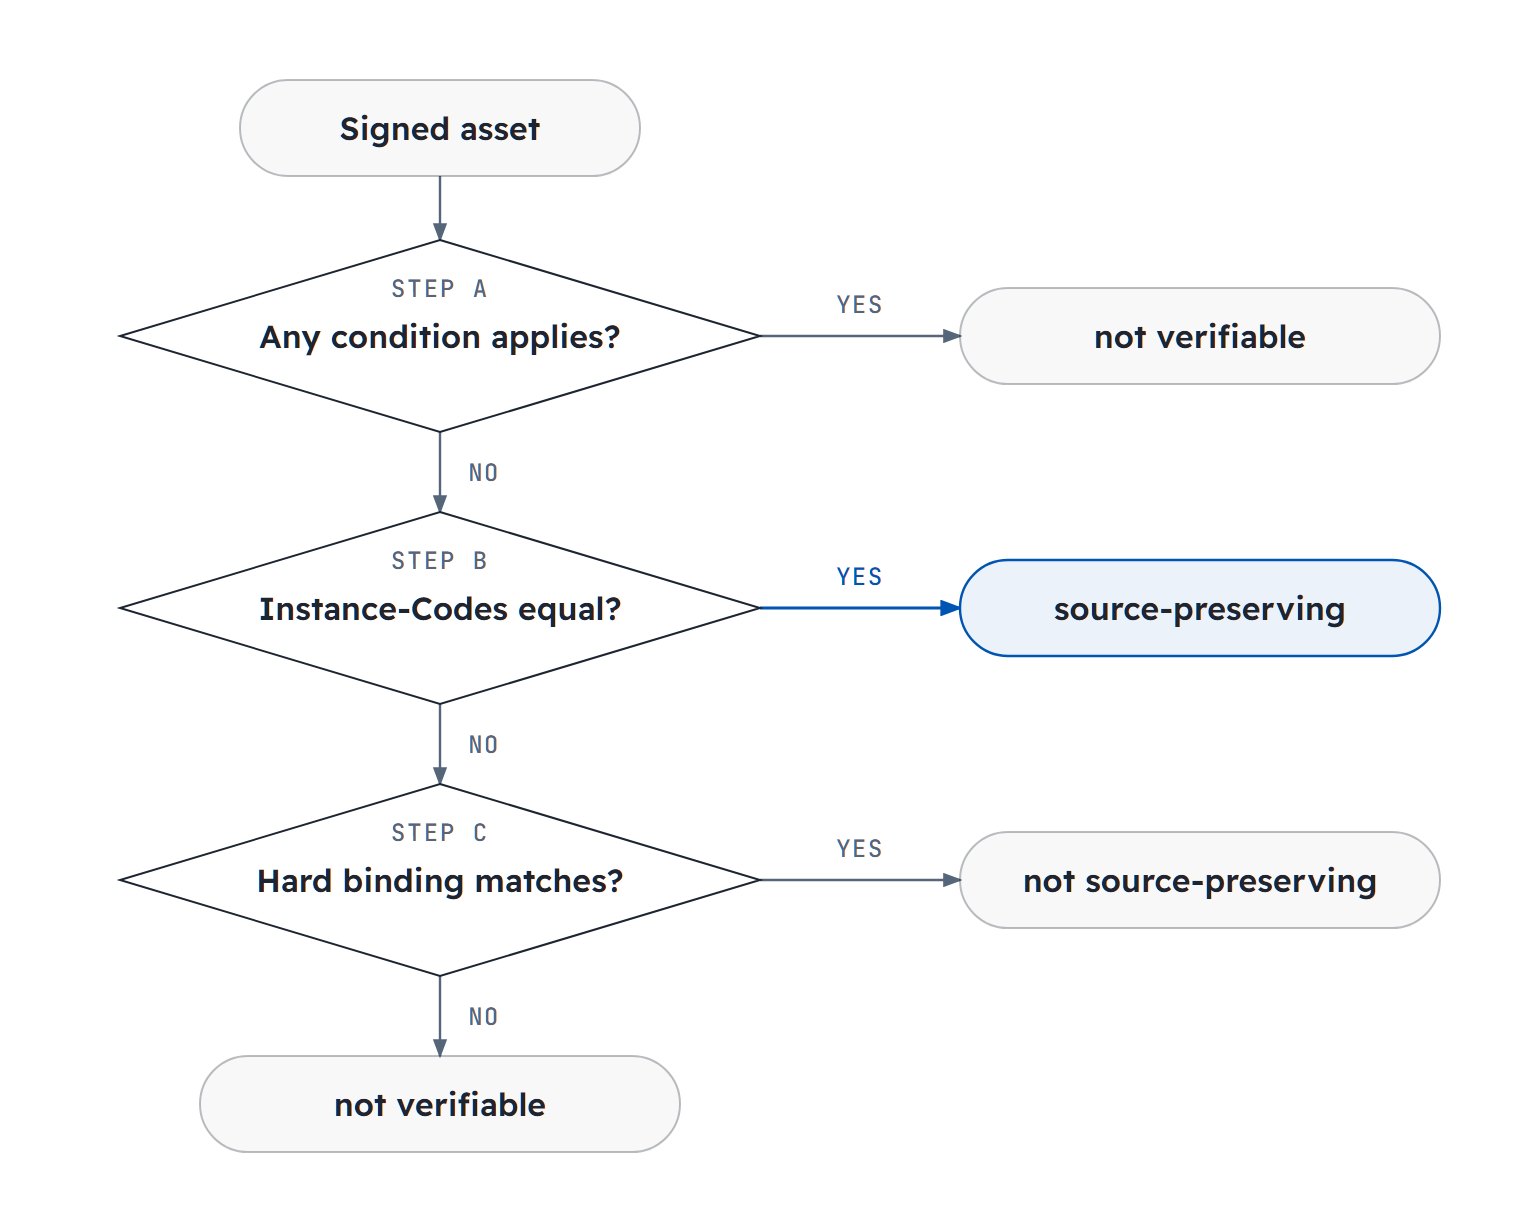
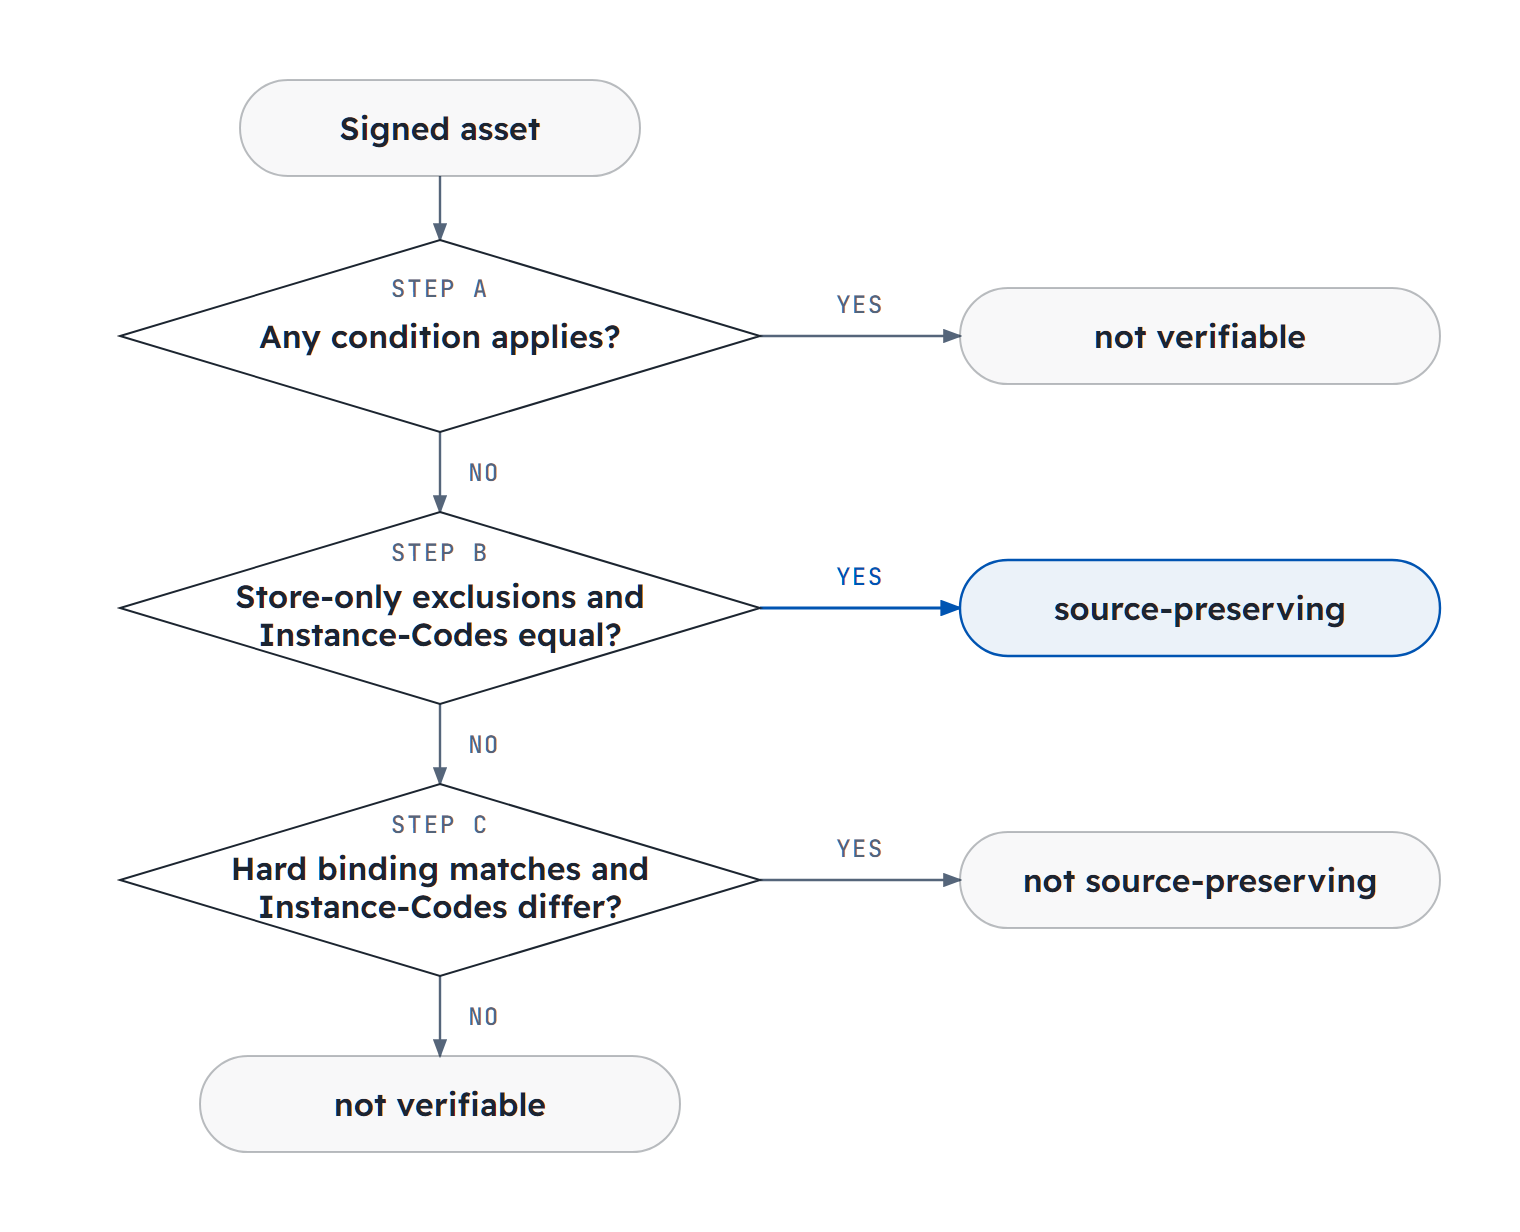
docs(iep-0020): require store-only exclusion ranges for source preservation
Step B reports source-preserving only if the exclusion ranges of the
data hash assertion cover only the C2PA Manifest Store. Step C reports
not source-preserving only if the Instance-Codes differ. The definition
of source-preserving, the Figure 2 flowchart and the note on causes
follow the check. Security Considerations explain how a C2PA 2.3
validator confirms store-only exclusion ranges.

Changed region(s): [[0.1546, 0.6477, 0.4329, 0.7711], [0.1546, 0.4318, 0.4329, 0.5244]]

diff --git a/ieps/iep-0020.md b/ieps/iep-0020.md
@@ -69,7 +69,8 @@ including any C2PA Manifest Store that the byte stream already contains
 **source view** : byte stream formed by the bytes of a signed asset outside the exclusion ranges of
 the data hash assertion of its active manifest
 
-**source-preserving** : characterized by a source view that equals its source, byte for byte
+**source-preserving** : characterized by a data hash assertion whose exclusion ranges cover only the
+C2PA Manifest Store and by a source view that equals its source, byte for byte
 
 ______________________________________________________________________
 
@@ -225,14 +226,17 @@ to the active manifest in the given order. It shall report the first result that
     - an assertion does not match its hashed URI in the claim;
     - the hard binding is not a data hash assertion (`c2pa.hash.data`);
     - no ISCC soft binding has an Instance-Code.
-2. Report *source-preserving* if the Instance-Code generated from the source view equals the
-    Instance-Code of an ISCC soft binding.
-3. Report *not source-preserving* if the hard binding matches the asset.
+2. Report *source-preserving* if the exclusion ranges of the data hash assertion cover only the C2PA
+    Manifest Store and the Instance-Code generated from the source view equals the Instance-Code of
+    an ISCC soft binding.
+3. Report *not source-preserving* if the hard binding matches the asset and no ISCC soft binding has
+    an Instance-Code equal to the one generated from the source view.
 4. Report *not verifiable*.
 
-Step B is conclusive. The Instance-Code is a cryptographic hash of the source. Step A makes sure
-that the claim signature protects the Instance-Code of the ISCC soft binding and the exclusion
-ranges of the data hash assertion.
+Step B is conclusive. The Instance-Code is a cryptographic hash of the source, and the condition on
+the exclusion ranges makes sure that the source view lacks nothing but the C2PA Manifest Store. Step
+A makes sure that the claim signature protects the Instance-Code of the ISCC soft binding and the
+exclusion ranges of the data hash assertion.
 
 Figure 2 shows the steps as a flowchart.
 
@@ -244,9 +248,10 @@ Figure 2 shows the steps as a flowchart.
 !!! note "NOTE"
 
     *Not source-preserving* does not show a change after signing, because the hard binding matches. It
-    shows that the embedding changed bytes outside the C2PA Manifest Store, or that the source already
-    contained a C2PA Manifest Store, which the embedding replaces. BMFF-based and ZIP-based assets are
-    always *not verifiable*, because their hard bindings are not data hash assertions.
+    shows that the embedding changed bytes outside the C2PA Manifest Store, that the exclusion ranges
+    cover bytes of the source (for example asset metadata), or that the source already contained a C2PA
+    Manifest Store, which the embedding replaces. BMFF-based and ZIP-based assets are always *not
+    verifiable*, because their hard bindings are not data hash assertions.
 
 ### Soft Binding Verification
 
@@ -312,6 +317,13 @@ them through the hashed URI of the soft binding assertion. The hard binding does
 The result *source-preserving* shows that the source view equals the source that the Instance-Code
 identifies. It does not show that the signer generated the other ISCC-UNITs correctly. Soft Binding
 Verification shows that.
+
+The signer chooses the exclusion ranges of the data hash assertion, and neither the hard binding nor
+the Instance-Code covers the bytes in them. A C2PA validator conforming to version 2.3 or later of
+the C2PA Technical Specification rejects an exclusion range that holds data other than the C2PA
+Manifest Store, but it accepts further exclusion ranges and reports them only with the informational
+code `assertion.dataHash.additionalExclusionsPresent`. With such a validator, a matching hard
+binding without that code shows that the exclusion ranges cover only the C2PA Manifest Store.
 
 ______________________________________________________________________
 
